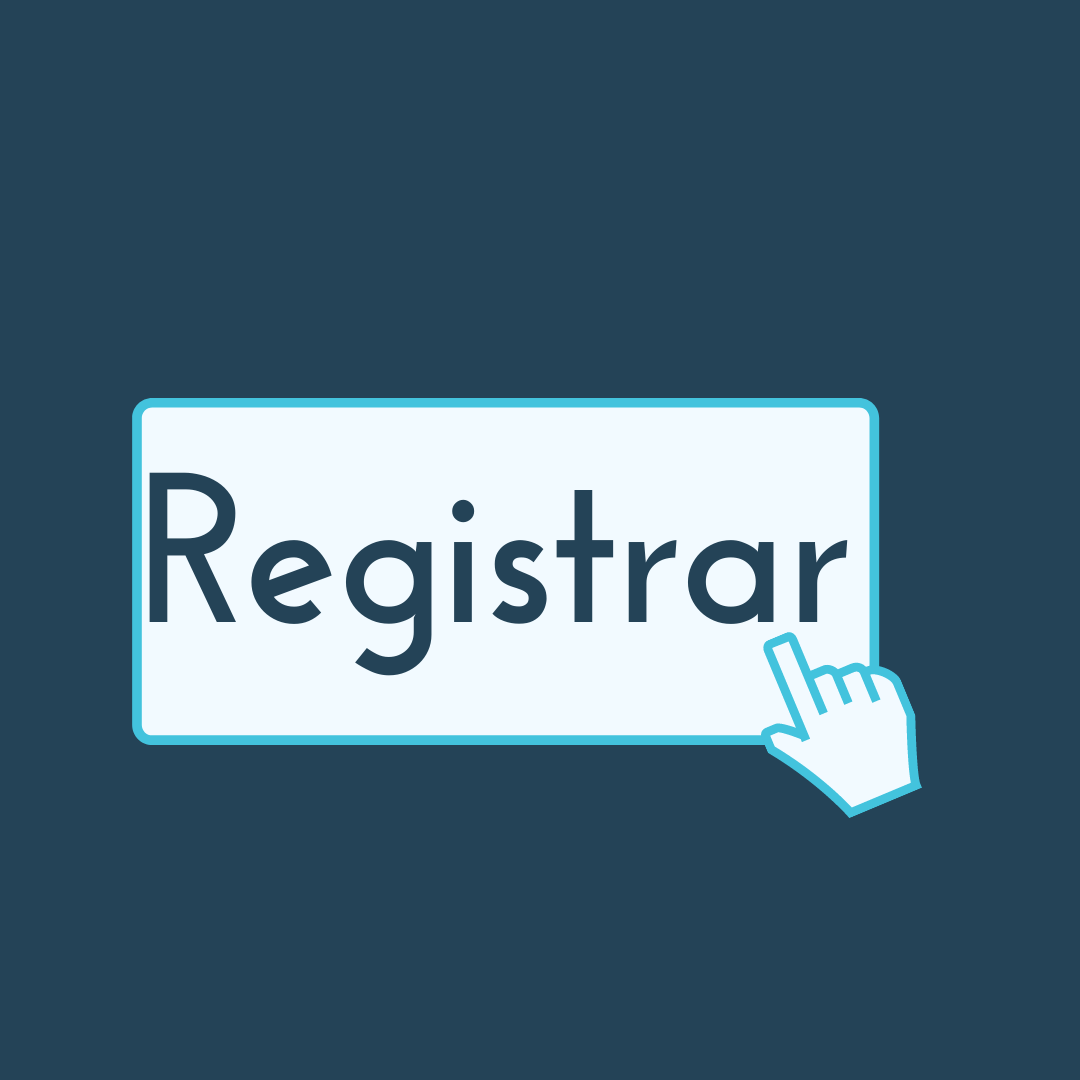
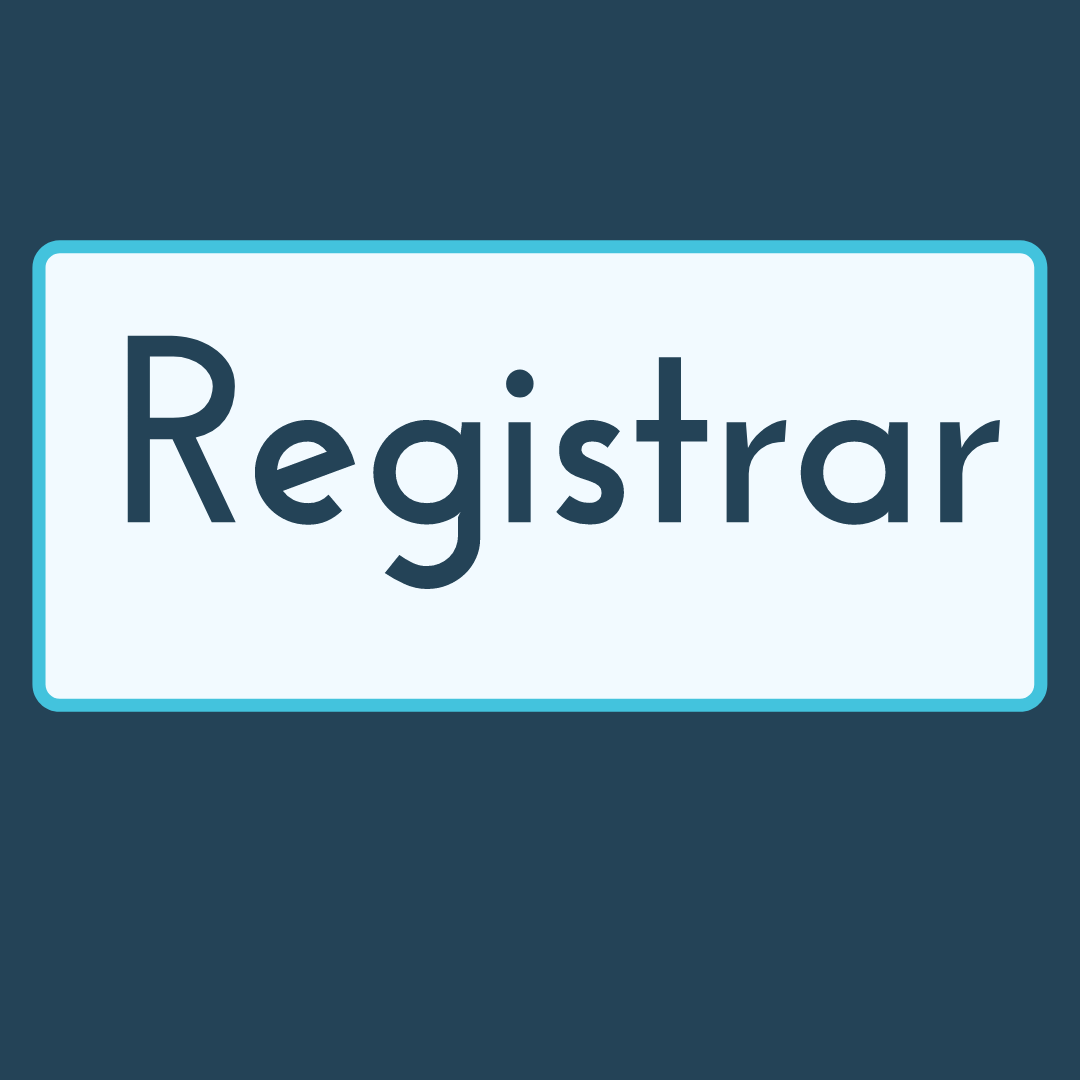
Ajustes

diff --git a/src/co/edu/unbosque/view/Panel1.java b/src/co/edu/unbosque/view/Panel1.java
@@ -50,9 +50,9 @@ public class Panel1 extends JPanel {
 		boton_entrar.setBounds(620, 55, 100, 50);
 		add(boton_entrar);
 		imagen_entrar = new ImageIcon(getClass().getResource("/co/edu/unbosque/imagenes/boton_entrada.png"));
-		icono_entrar = new ImageIcon(imagen_entrar.getImage().getScaledInstance(150, 100, Image.SCALE_SMOOTH));
-		boton_entrar.setHorizontalAlignment(javax.swing.SwingConstants.CENTER);
-		boton_entrar.setVerticalAlignment(javax.swing.SwingConstants.CENTER);
+		icono_entrar = new ImageIcon(imagen_entrar.getImage().getScaledInstance(90, 90, Image.SCALE_SMOOTH));
+		boton_entrar.setHorizontalAlignment(SwingConstants.CENTER);
+		boton_entrar.setVerticalAlignment(SwingConstants.CENTER);
 		boton_entrar.setContentAreaFilled(false);
 		boton_entrar.setBorderPainted(false);
 		boton_entrar.setIcon(icono_entrar);
@@ -68,12 +68,13 @@ public class Panel1 extends JPanel {
 		Color colorA = new Color(36, 67, 87);
 		grupo = new ButtonGroup();
 		c1 = new JRadioButton("Mujer");
-		c1.setFont(new Font("Bernard MT Condensed", Font.TRUETYPE_FONT, 16));
+		c1.setFont(new Font("Accidental Presidency", Font.BOLD, 16));
 		c1.setBackground(colorA);
 		c1.setForeground(Color.white);
+//		c2.setBackground(colorA);
+//		c2.setForeground(Color.white);
 		c2 = new JRadioButton("Hombre");
-		c2.setFont(new Font("Bernard MT Condensed", Font.TRUETYPE_FONT, 16));
-
+		c2.setFont(new Font("Accidental Presidency", Font.BOLD, 16));
 		c1.setBounds(36, 350, 100, 20);
 		c2.setBounds(220, 350, 100, 20);
 		grupo.add(c1);
@@ -102,9 +103,9 @@ public class Panel1 extends JPanel {
 		boton_registrar.setBounds(370, 480, 100, 50);
 		add(boton_registrar);
 		imagen_registar = new ImageIcon(getClass().getResource("/co/edu/unbosque/imagenes/boton_registrar.png"));
-		icono_registrar = new ImageIcon(imagen_registar.getImage().getScaledInstance(130, 90, Image.SCALE_SMOOTH));
-		boton_registrar.setHorizontalAlignment(javax.swing.SwingConstants.CENTER);
-		boton_registrar.setVerticalAlignment(javax.swing.SwingConstants.CENTER);
+		icono_registrar = new ImageIcon(imagen_registar.getImage().getScaledInstance(100, 90, Image.SCALE_SMOOTH));
+		boton_registrar.setHorizontalAlignment(SwingConstants.CENTER);
+		boton_registrar.setVerticalAlignment(SwingConstants.CENTER);
 		boton_registrar.setContentAreaFilled(false);
 		boton_registrar.setBorderPainted(false);
 		boton_registrar.setIcon(icono_registrar);
